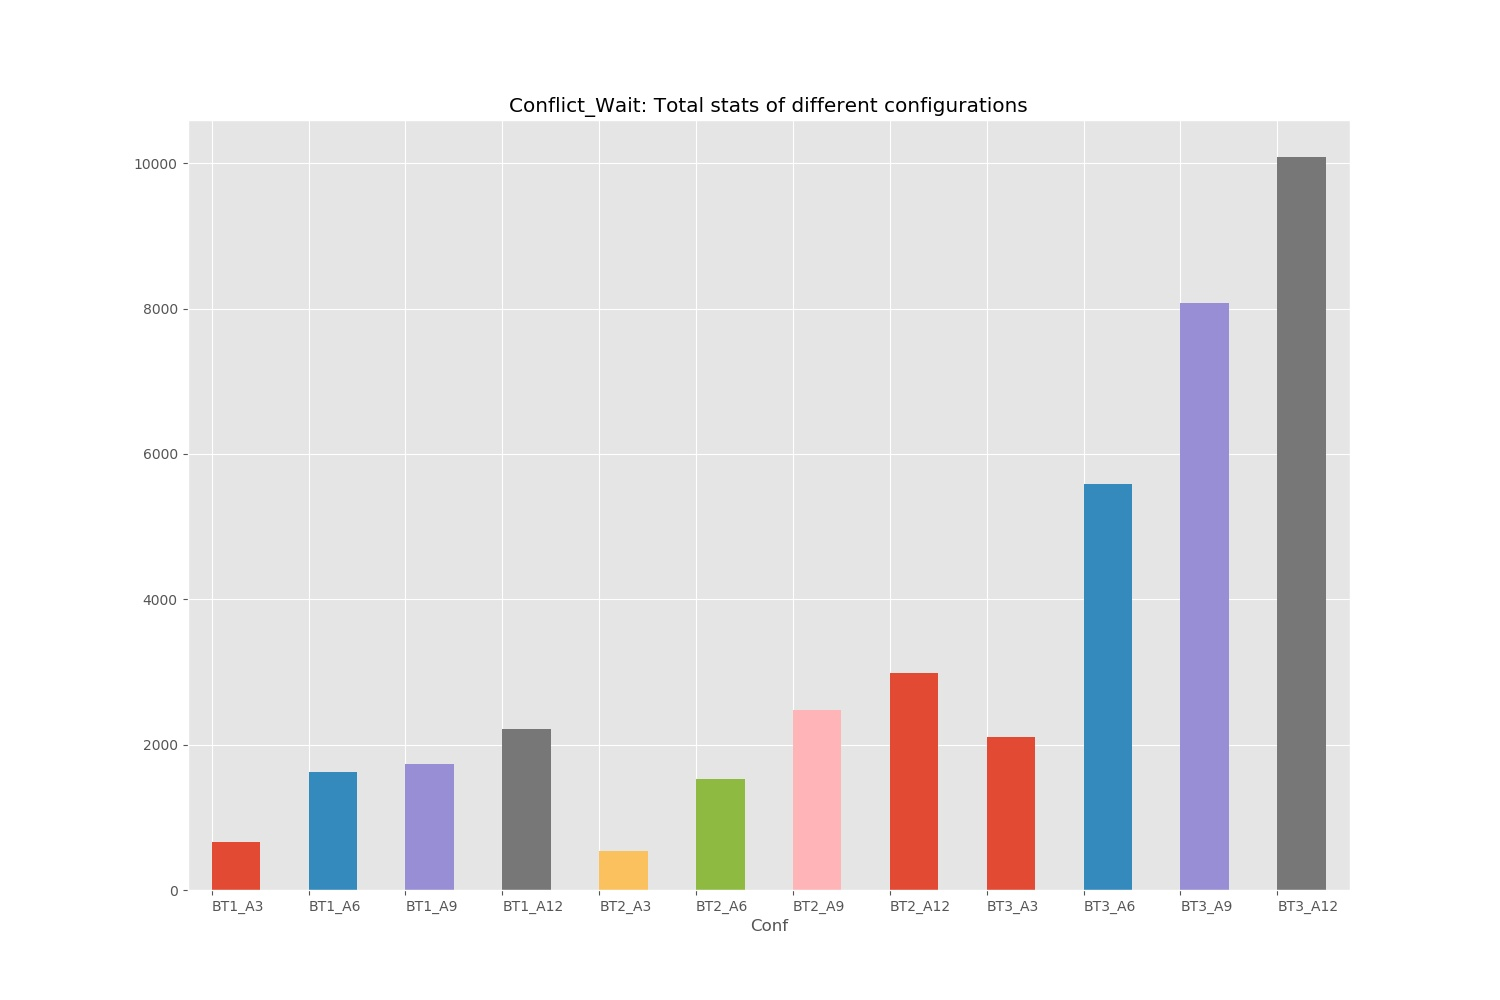
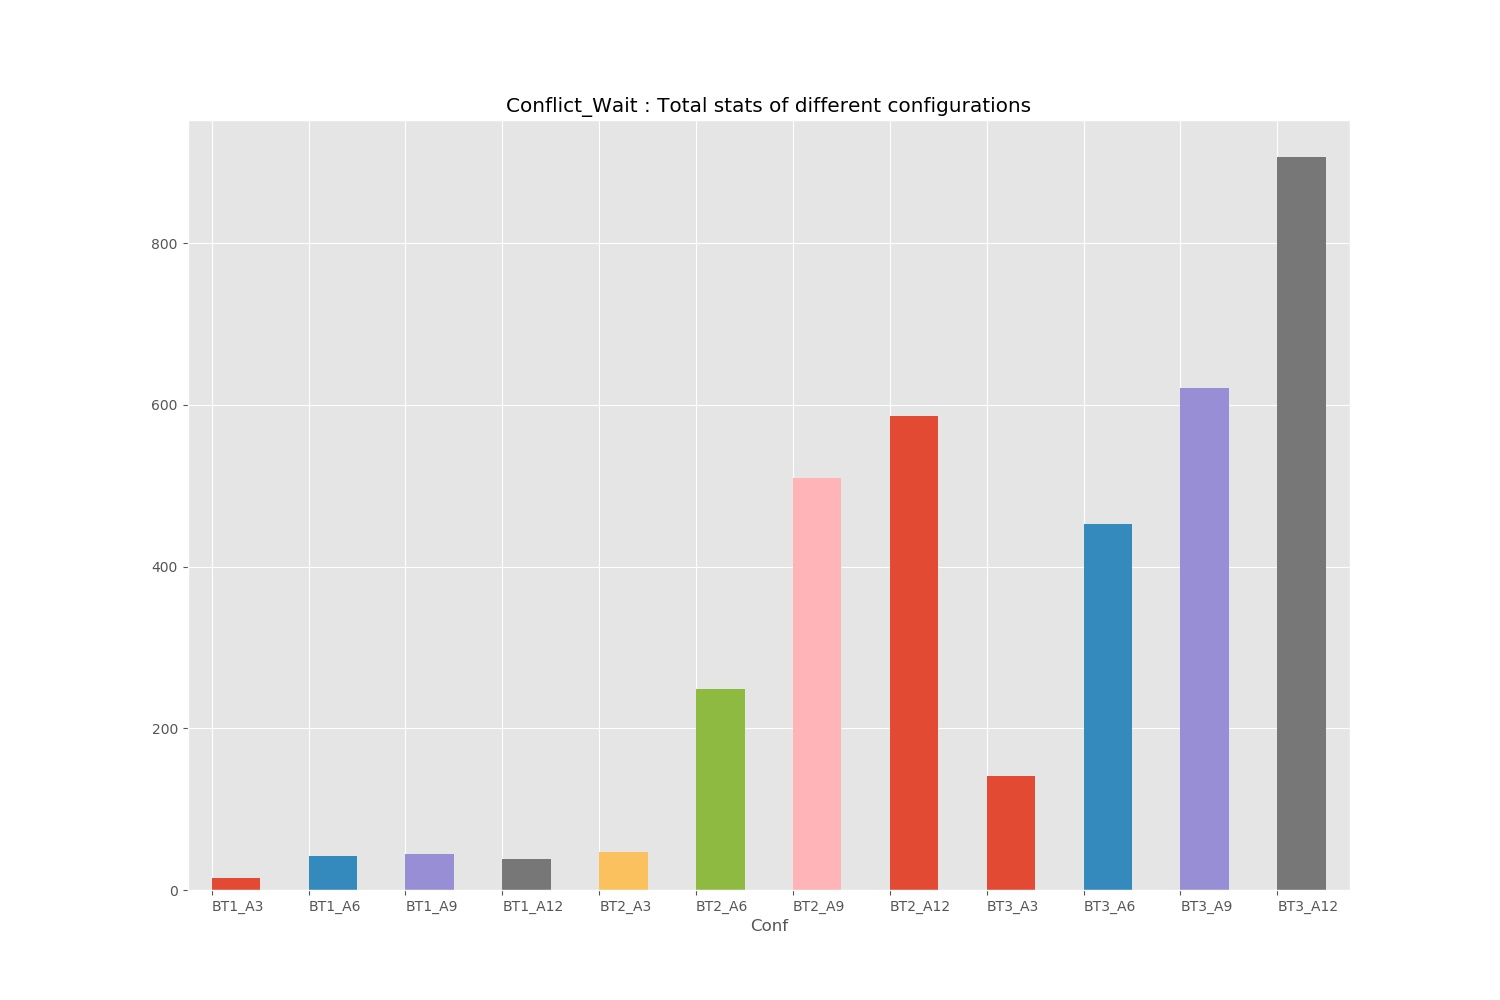
Total stats bug fixedd

diff --git a/Data Analysis/Total_Stat.py b/Data Analysis/Total_Stat.py
@@ -20,14 +20,17 @@ series2_origin = series2[:]
 count = 0
 configurations = ["BT1_A3", "BT2_A3", "BT3_A3", "BT1_A6", "BT2_A6", "BT3_A6", "BT1_A9", "BT2_A9", "BT3_A9", "BT1_A12", "BT2_A12", "BT3_A12"]
 configurations_order = ["BT1_A3", "BT1_A6", "BT1_A9", "BT1_A12", "BT2_A3", "BT2_A6", "BT2_A9", "BT2_A12", "BT3_A3", "BT3_A6", "BT3_A9", "BT3_A12"]
-parameters = ["Conflicts","Conflict_Wait","Conflict_Path","Waiting_Gate","Articles","Moving_Steps","Time_Steps"]
+parameters = ["Articles","Conflict_Path","Conflict_Wait","Conflicts","Moving_Steps","Time_Steps","Waiting_Gate"]
 
+print(series2)
 series2 = series2.set_index(["Conf"]).reindex(configurations_order)
+print(series2)
 
 for param in parameters:
     series2[param].plot(kind='bar', align="edge")
     pyplot.xticks(rotation='horizontal', horizontalalignment='left')
     name_fig = "Output_Graphics/Total/Total_" + param + ".jpg"
-    pyplot.title(param + ": Total stats of different configurations")
+    pyplot.title(param + " : Total stats of different configurations")
     pyplot.savefig(name_fig, format="jpg")
+    pyplot.close()
     #pyplot.show()
